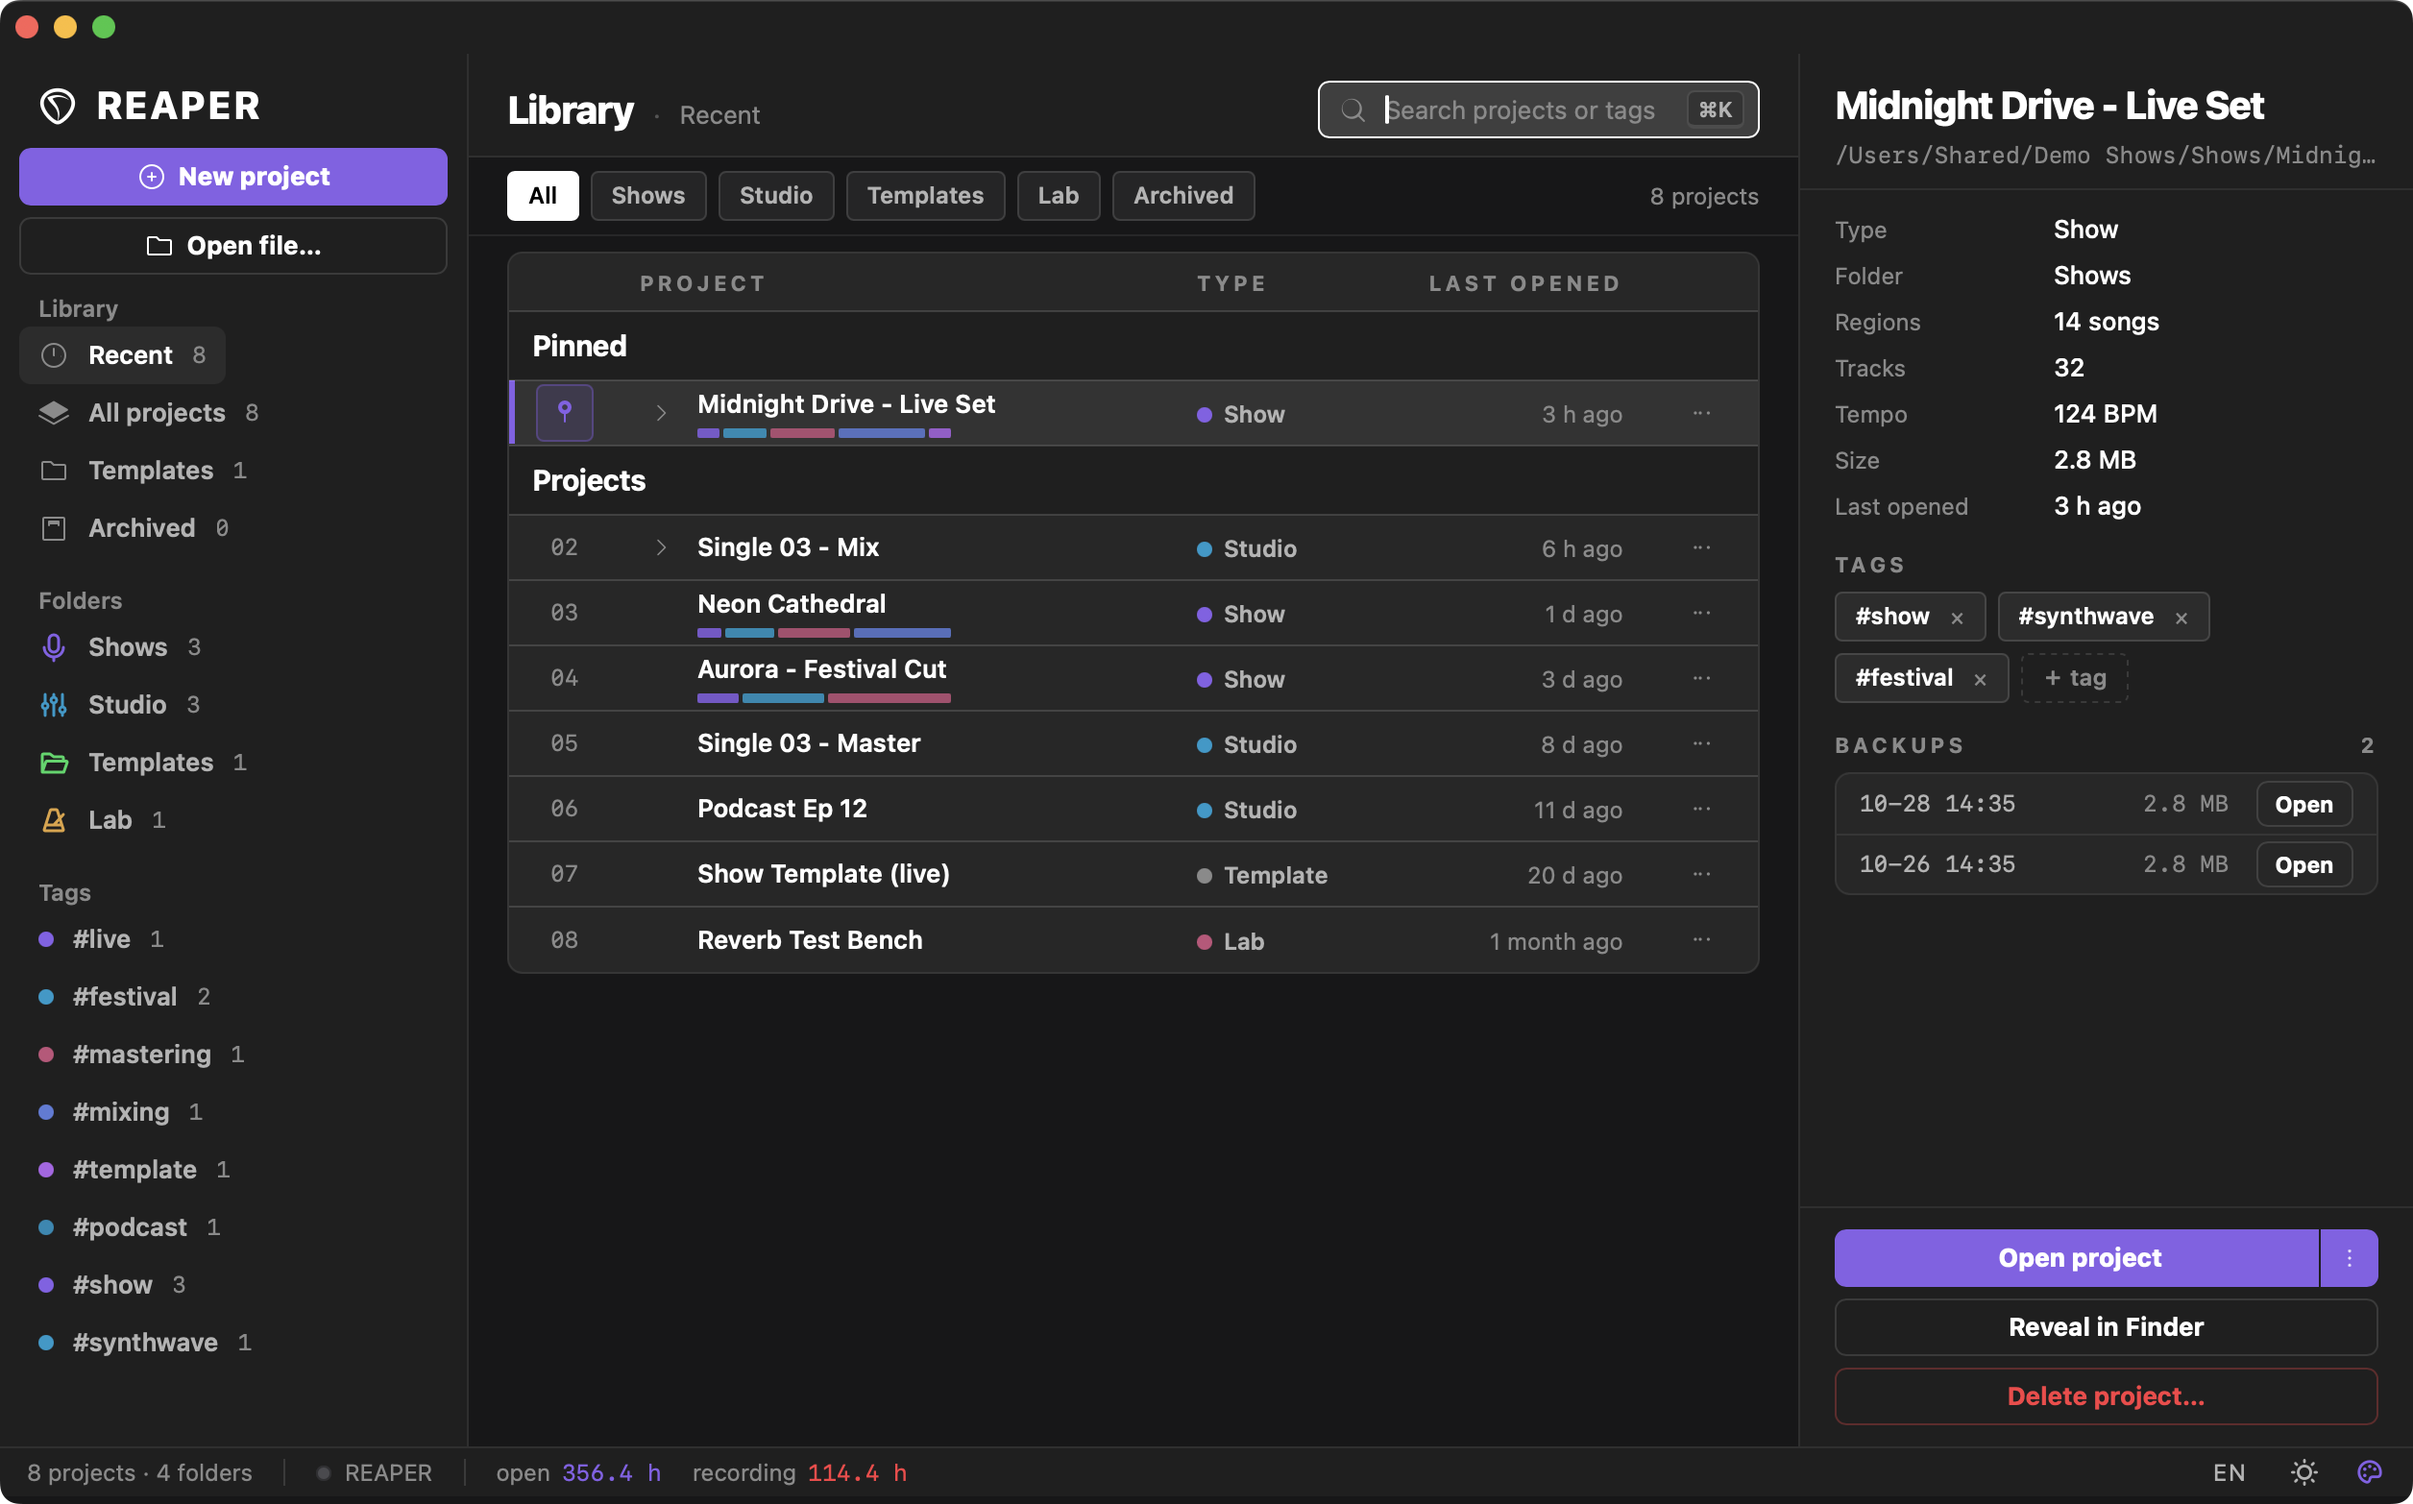
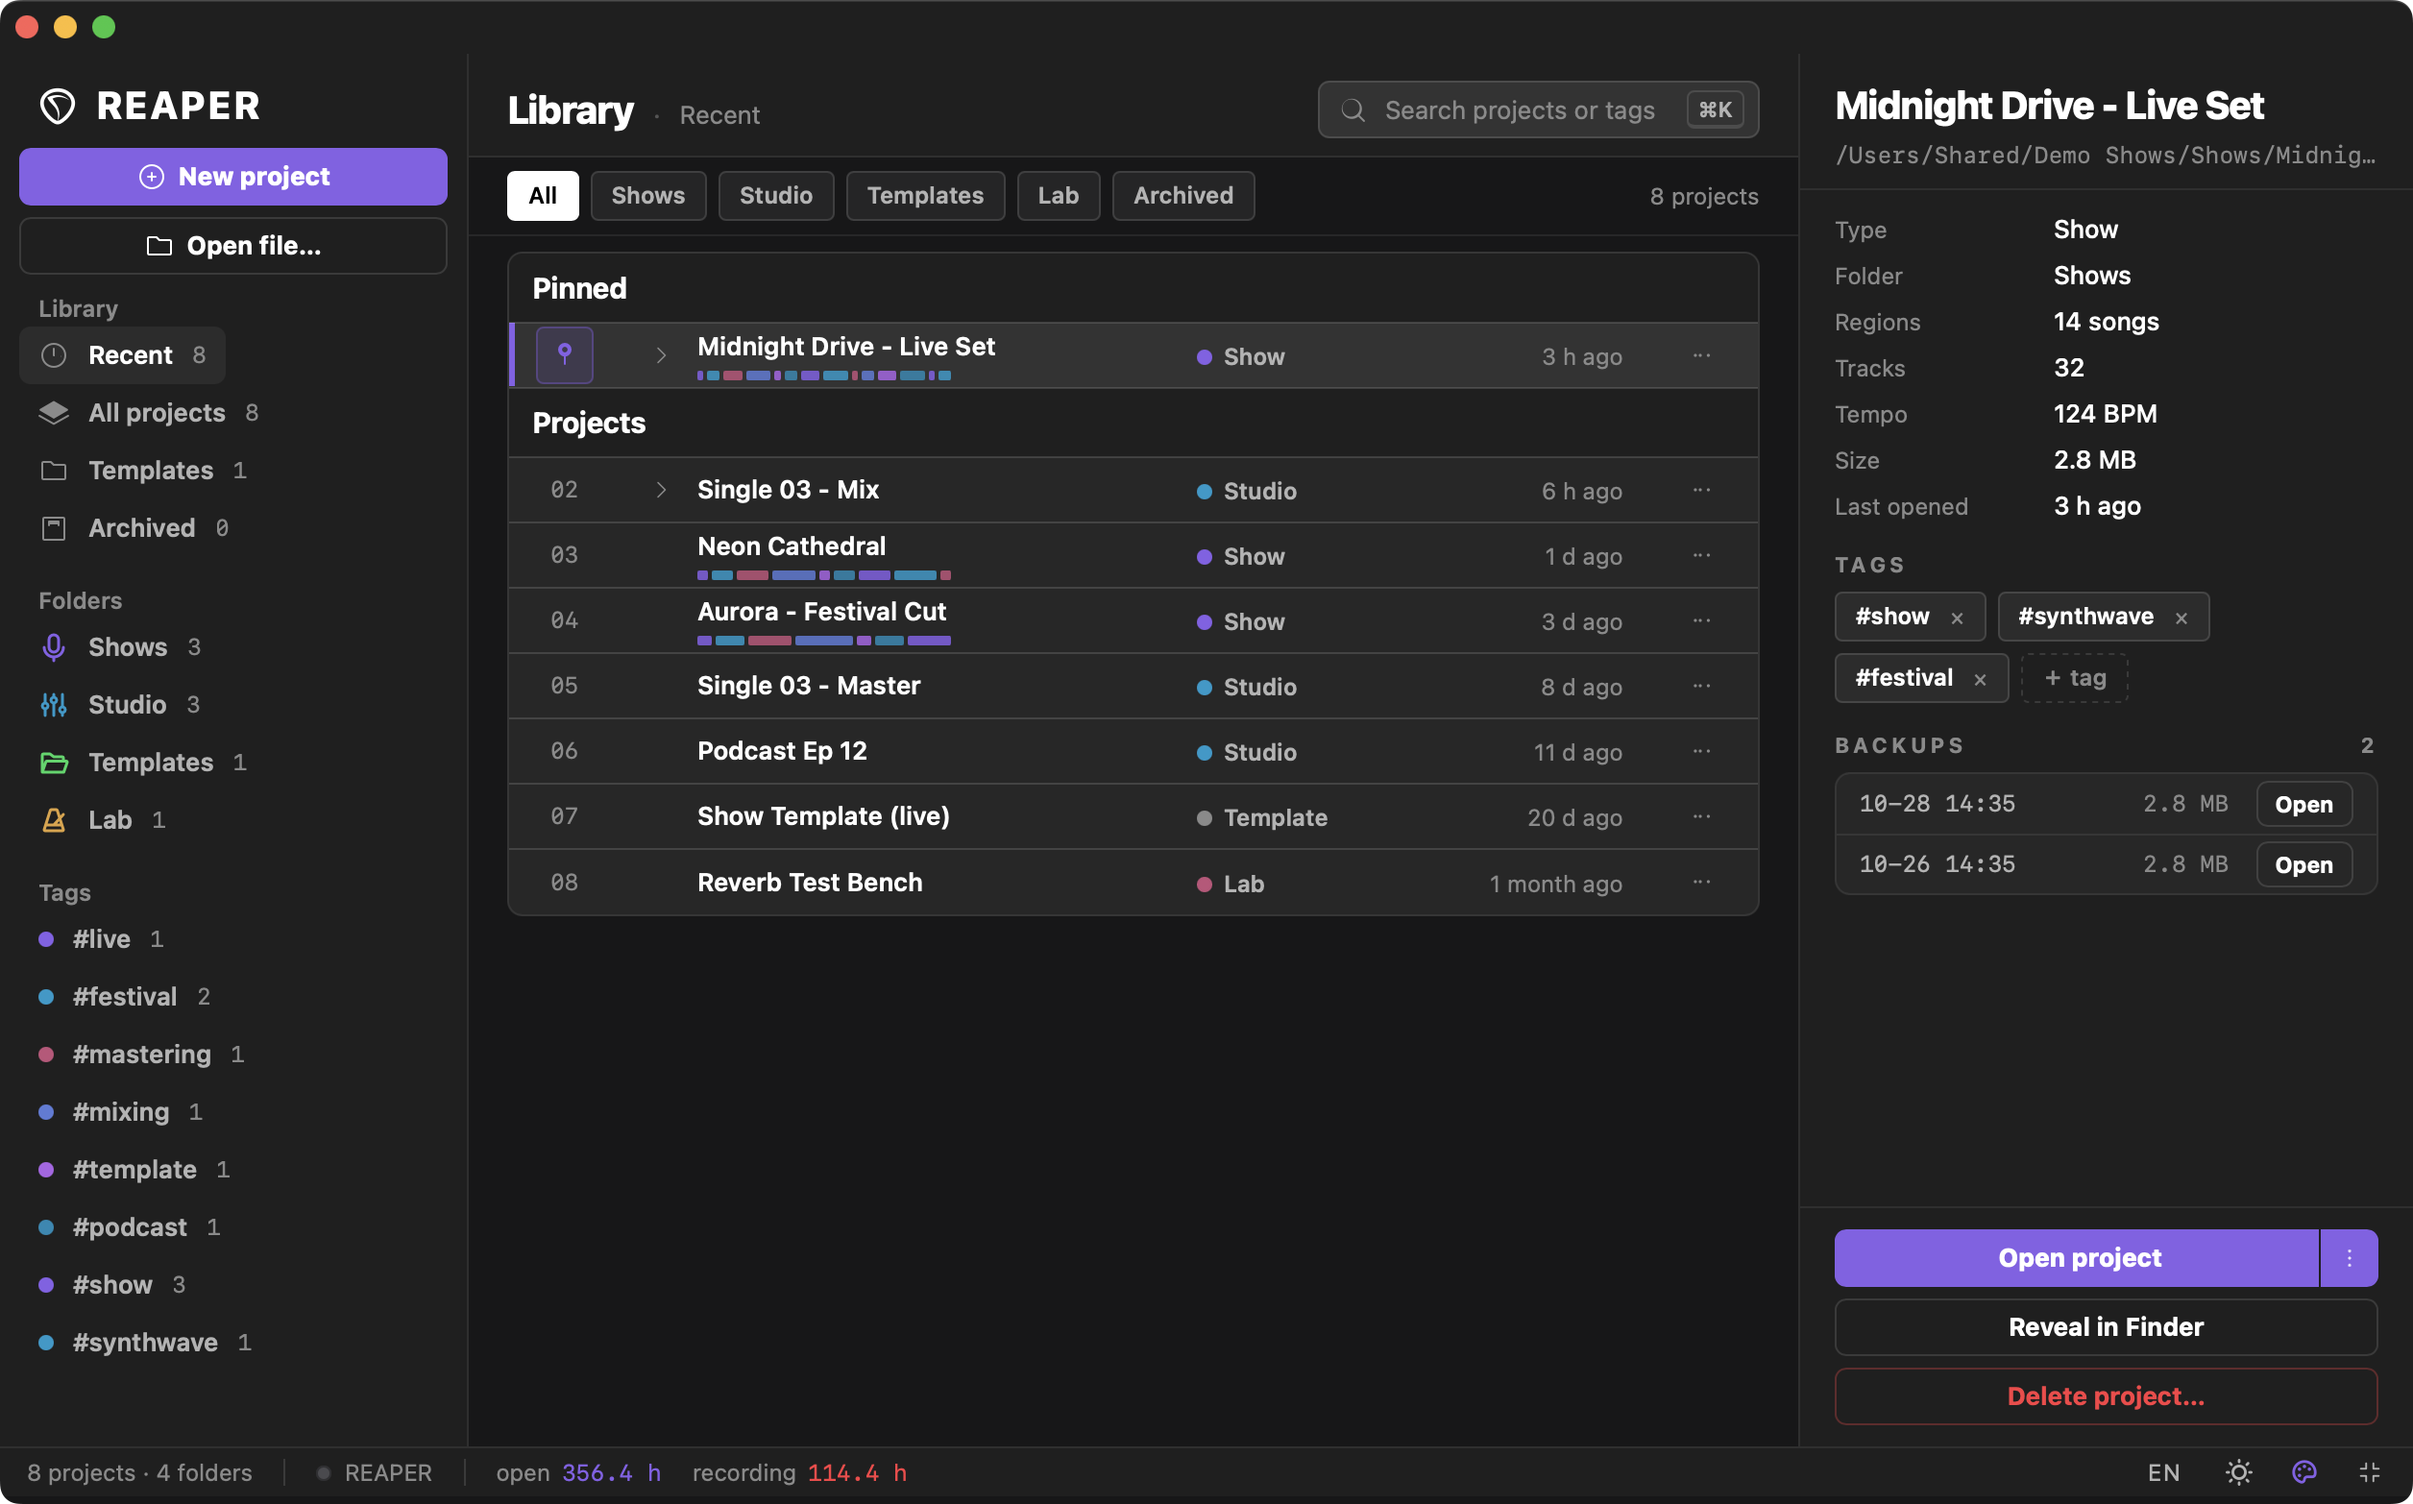
Capturas de modo full sin encabezado de tabla y readme al dia

diff --git a/Resources/selector.html b/Resources/selector.html
@@ -547,6 +547,13 @@ function renderTable(){
   const wrap=el('div','rk-table-wrap');
   const table=el('table','rk-table');
 
+  // Encabezado sin títulos pero presente: con table-layout:fixed los anchos de
+  // columna salen de la primera fila, y la primera fila visible es la banda de
+  // grupo (colspan=5), que rompería la alineación. Alto 0 y sin texto.
+  const thead=el('thead'); const htr=el('tr');
+  [['c-num'],[''],['c-type'],['c-when'],['c-act']].forEach(([cls])=>htr.appendChild(el('th',cls)));
+  thead.appendChild(htr); table.appendChild(thead);
+
   const tbody=el('tbody');
   const pinnedCount=arr.filter(p=>p.pinned).length;
   if(pinnedCount){

diff --git a/Resources/selector.css b/Resources/selector.css
@@ -115,6 +115,7 @@
 
   .rk-table-wrap{border-radius:var(--rk-r-md)}
   .rk-table{table-layout:fixed}
+  .rk-table thead th{height:0;padding-top:0;padding-bottom:0;border:0;font-size:0;line-height:0;color:transparent;overflow:hidden}
   .rk-table th.c-num,.rk-table td.c-num{width:56px;padding-left:14px;padding-right:0}
   .rk-table th.c-when,.rk-table td.c-when{width:132px;text-align:right;padding-right:14px}
   .rk-table th.c-type,.rk-table td.c-type{width:116px}

diff --git a/README.es.md b/README.es.md
@@ -42,7 +42,7 @@ Empezó como una herramienta para mis propios shows en vivo. Después le crecier
 | 🩺 **Modo recuperación** | Abre cualquier proyecto con todos los FX offline, o deja que el launcher los traiga online de a uno cuando termine de cargar. `⌥`-clic en Abrir o desde el menú contextual. |
 | 🧩 **Crear desde plantillas** | Vacío, grabación, edición, mezcla, master o show en vivo: escribe el archivo correcto en el lugar correcto. |
 | 📊 **Estadísticas de sesión** | Horas con REAPER abierto y horas realmente grabando, acumuladas por un script Lua silencioso. |
-| 🪟 **Modo slim** | La ventana entera se convierte en una lista angosta: fijados primero, después recientes. Un clic y el proyecto abre — sin inspector, sin opciones. El clic derecho sigue dando el modo recuperación. |
+| 🪟 **Modo slim** | La ventana entera se convierte en una lista angosta: fijados primero, después recientes. Un clic y el proyecto abre — sin inspector, sin opciones. El clic derecho sigue dando el modo recuperación. Recuerda el modo entre sesiones. |
 | 🖱 **Menús de clic derecho propios** | Renombrar, cambiar color e icono de carpetas; fijar, archivar, mover o eliminar proyectos. Sin menú nativo de WebKit ni selección de texto. |
 | 🔒 **A prueba de actualizaciones** | Los scripts Lua viven en tu carpeta de recursos de REAPER y se registran solos en la lista de acciones: actualizar REAPER no los rompe. |
 | ⚡ **Rápido y silencioso** | Ventana nativa, sin Electron, abre en ~0,4 s sin flash blanco ni repintados visibles. |

diff --git a/README.md b/README.md
@@ -42,7 +42,7 @@ It started as a tool for my own live shows. Then it grew folders, tags, backups,
 | 🩺 **Recovery mode** | Open any project with all FX offline, or let the launcher bring them online one at a time once it's loaded. `⌥`-click the Open button or use the right-click menu. |
 | 🧩 **Create from templates** | Empty, recording, editing, mixing, mastering or a live show — it writes the right file in the right place. |
 | 📊 **Session stats** | Hours with REAPER open and hours actually recording, accumulated by a quiet Lua script. |
-| 🪟 **Slim mode** | Collapse the whole thing into a narrow list: pinned first, then recent. Click and the project opens — no inspector, no options. Right-click still gives you recovery mode. |
+| 🪟 **Slim mode** | Collapse the whole thing into a narrow list: pinned first, then recent. Click and the project opens — no inspector, no options. Right-click still gives you recovery mode. It remembers the mode between sessions. |
 | 🖱 **Its own right-click menus** | Rename, recolor and re-icon folders; pin, archive, move or trash projects. No native WebKit menu, no text selection. |
 | 🔒 **Update-proof** | The Lua scripts live in your REAPER resource folder and register themselves in the Action List, so a REAPER update doesn't break them. |
 | ⚡ **Fast and quiet** | Native window, no Electron, opens in ~0.4 s with no white flash and no visible redraw. |
